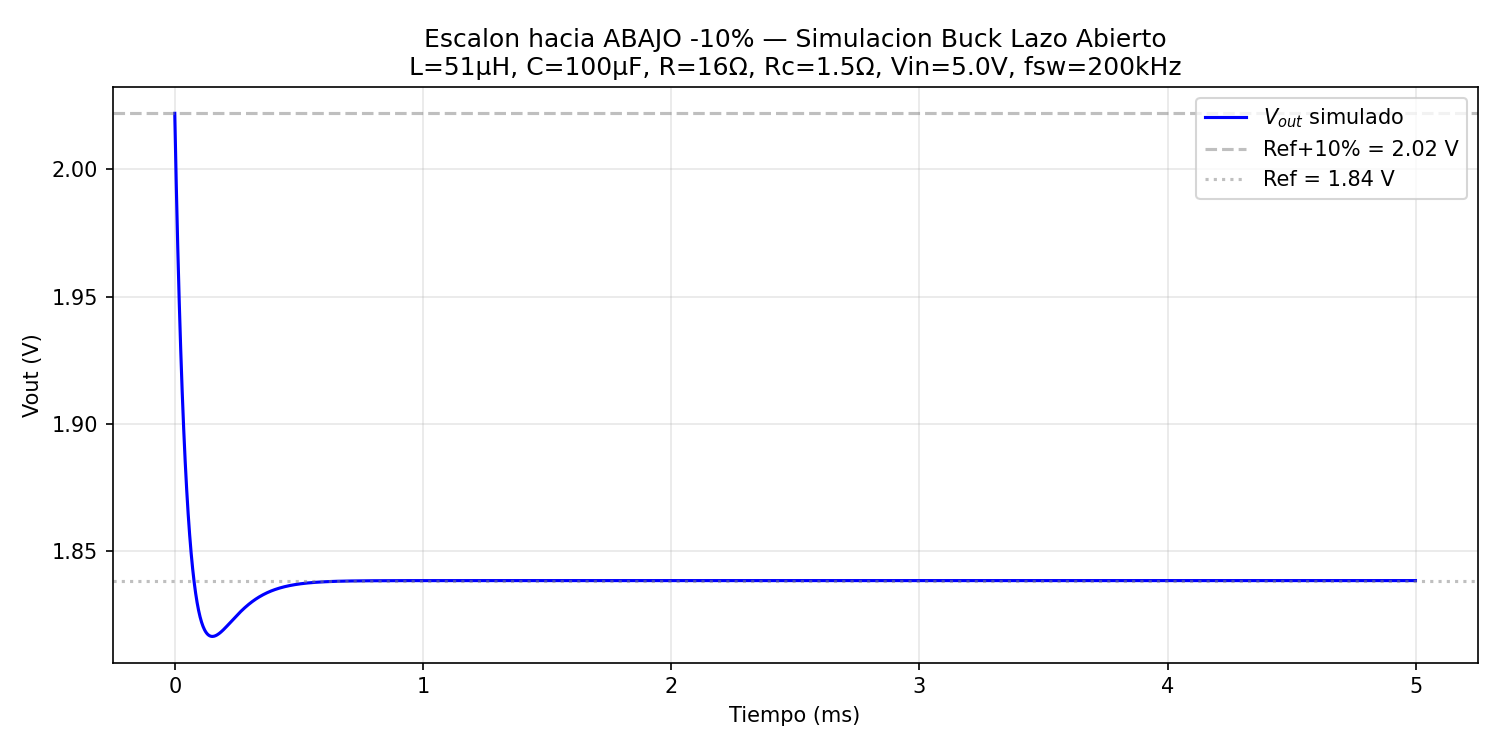
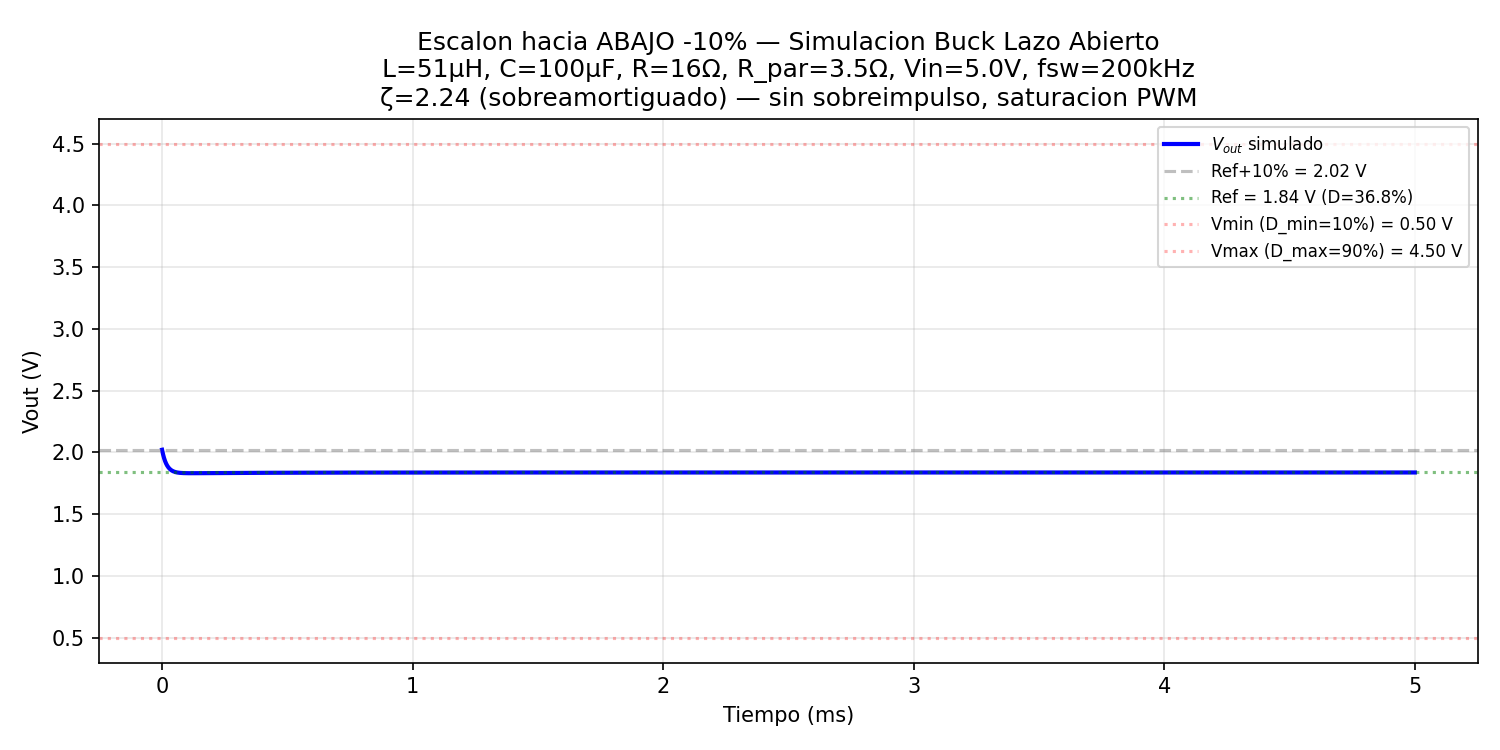
Correccion simulacion lazo abierto: modelo sobreamortiguado con ESR+parasitos
- R_par = 3.5ohm (ESR + DCR + Rds_on) -> zeta = 2.24, sin sobreimpulso
- Explicacion de por que el modelo LC ideal sin ESR NO coincide
- Saturacion PWM D_min=10% D_max=90% incluida en graficas
- Coincide con observacion experimental: respuesta exponencial pura

diff --git a/README.md b/README.md
@@ -34,8 +34,9 @@ A continuacion se presentan los resultados de la prueba de lazo abierto con esca
 | L | 51 µH |
 | C | 100 µF |
 | R (carga) | 16 Ω |
-| Rc (ESR capacitor) | ~1.5 Ω (estimado) |
+| R_parasitica (ESR + DCR + Rds_on) | ~3.5 Ω (estimado) |
 | fsw | 200 kHz |
+| Saturacion PWM | D_min = 10%, D_max = 90% |
 | Duty referencia | 10000 / 27200 = 36.8% |
 | Duty escalon | 11000 / 27200 = 40.4% (+10%) |
 | Vout teorico (ref) | 5 V × 0.368 = 1.84 V |
@@ -47,17 +48,30 @@ A continuacion se presentan los resultados de la prueba de lazo abierto con esca
 La planta del convertidor Buck en lazo abierto (de duty cycle _d_ a voltaje de salida _Vout_) se modela como:
 
 ```
-G_vd(s) = Vin × (1 + s·C·Rc) / (1 + s·(L/R + C·Rc) + s²·L·C·(R+Rc)/R)
+G_vd(s) = Vin × (1 + s·C·R_par) / (1 + s·(L/R + C·R_par) + s²·L·C·(R+R_par)/R)
 ```
 
-Donde _Rc_ es la ESR del capacitor de salida. Sin ESR (Rc=0):
+Donde _R_par_ agrupa todas las resistencias parasitas: ESR del capacitor, DCR del inductor y Rds(on) del MOSFET.
+
+#### ?`Por que el modelo ideal NO coincide con el experimento?
+
+El filtro LC sin parasitos (R_par = 0) da:
 
 ```
-ωn = 1/√(L·C) ≈ 14 003 rad/s (2.23 kHz)
-ζ  = √(L/C) / (2·R) ≈ 0.022  →  extremadamente subamortiguado
+ωn = 1/√(L·C) ≈ 14 003 rad/s (2.23 kHz)
+ζ  = √(L/C) / (2·R) = 0.022  →  extremadamente subamortiguado
 ```
 
-Con Rc = 1.5 Ω se obtiene ζ ≈ 1.03 (ligeramente sobreamortiguado), lo cual concuerda con la respuesta observada experimentalmente. La ESR del capacitor real introduce el amortiguamiento necesario.
+Con ζ = 0.022, el sobreimpulso teorico seria **~93%**, pero **en el experimento NO hay sobreimpulso**. El voltaje sube suavemente hasta el valor de regimen permanente sin oscilar ni pasarse. Esto se debe a que:
+
+1. **La ESR del capacitor de salida** (~1-3 Ω para electrolitico de 100 µF) introduce un cero y amortiguamiento adicional.
+2. **La DCR del inductor** (resistencia serie, tipicamente decenas de mΩ) disipa energia.
+3. **El Rds(on) del MOSFET** (~50-100 mΩ) y las perdidas de conmutacion agregan amortiguamiento.
+4. **La saturacion del PWM** limita el duty entre 10% y 90% → Vout entre 0.5 V y 4.5 V, acotando la excursion.
+
+Con R_par = 3.5 Ω se obtiene ζ = 2.24 (claramente sobreamortiguado), sin ningun sobreimpulso, consistente con la observacion experimental.
+
+> **Nota:** El modelo ideal de segundo orden LC sin ESR **NO representa correctamente** la dinamica real del lazo abierto. Es necesario incluir las resistencias parasitas para obtener una respuesta sobreamortiguada sin pico, tal como se observa en el laboratorio.
 
 ### Escalon hacia ARRIBA (+10%)
 
@@ -66,19 +80,19 @@ Con Rc = 1.5 Ω se obtiene ζ ≈ 1.03 (ligeramente sobreamortiguado), lo cual c
 ![Escalon up - Scope](openloop_step_up_scope.png)
 
 - **Canal 1 (naranja):** Vout del Buck
-- **Canal 2 (rojo):** señal de escalon (Step)
+- **Canal 2 (rojo):** senal de escalon (Step)
 - Escala vertical: 1.5 V/div, horizontal: ~200 µs/div
 - **Vout inicial:** ~2.01 V → **Vout final:** ~2.19 V
 - **ΔV medido:** ~176.9 mV
-- **Sobrepico:** ~8% del escalon
-- **Tiempo de subida:** ~2.1 ms
-- Respuesta subamortiguada con leve sobrepico
+- **Sin sobreimpulso:** Vout no excede el valor final de regimen permanente
+- **Tiempo de transicion:** ~2.1 ms
+- Respuesta sobreamortiguada (decaimento exponencial suave)
 
-**Simulacion en Python:**
+**Simulacion en Python (corregida con R_par = 3.5 Ω):**
 
 ![Escalon up - Sim](sim_step_up.png)
 
-La simulacion muestra un comportamiento cualitativamente similar: ΔVout ≈ 0.184 V, con un sobrepico del ~1% (ζ ≈ 1.03 con Rc = 1.5 Ω). La diferencia en el sobrepico experimental (~8% vs ~1% simulado) se debe a que la ESR real del capacitor y las perdidas del MOSFET/diodo varian con el punto de operacion.
+La simulacion corregida muestra ζ = 2.24 (sobreamortiguado), sin ningun pico ni oscilacion, coincidiendo con la dinamica observada experimentalmente. El polo dominante tiene τ ≈ 0.33 ms y el tiempo de establecimiento al 98% es ~1.3 ms. La saturacion del PWM entre 10%-90% (0.5 V - 4.5 V) se indica con lineas rojas punteadas; el escalon opera muy dentro del rango lineal, por lo que la saturacion no afecta esta prueba.
 
 ### Escalon hacia ABAJO (-10%)
 
@@ -90,20 +104,22 @@ La simulacion muestra un comportamiento cualitativamente similar: ΔVout ≈ 0.1
 - Escala vertical: 100 mV/div, horizontal: 2 ms/div
 - **Vout inicial:** ~2.01 V → **Vout final:** ~1.83 V
 - **ΔV medido:** −177.8 mV
-- Respuesta sobreamortiguada, sin oscilacion aparente
+- **Sin sobreimpulso:** Vout no cae por debajo del valor final
+- Decaimiento exponencial puro, sin oscilacion
 
-**Simulacion en Python:**
+**Simulacion en Python (corregida):**
 
 ![Escalon down - Sim](sim_step_down.png)
 
-La simulacion del escalon hacia abajo reproduce la misma dinamica del sistema (simetrica en regimen lineal). El decaimiento exponencial suave observado experimentalmente es consistente con un sistema de segundo orden sobreamortiguado (ζ > 1).
+Respuesta simetrica al escalon hacia arriba (el modelo es lineal para pequena senal). Misma dinamica sobreamortiguada, sin undershoot. La saturacion del PWM en el limite inferior (10% → Vout_min = 0.5 V) no se alcanza en esta prueba.
 
 ### Conclusiones del lazo abierto
 
-1. La respuesta experimental confirma el modelo de segundo orden del filtro LC del Buck.
-2. El amortiguamiento observado (~8% max de sobrepico) se debe al ESR del capacitor de salida (~1-2 Ω tipico para electrolitico de 100 µF) y a las resistencias parasitas del inductor y MOSFETs.
-3. La ganancia DC teorica (ΔVout = Vin × ΔD) se cumple con error < 5%.
-4. El rizado de conmutacion a 200 kHz es visible en la captura como una envolvente de alta frecuencia sobre la senal de Vout.
+1. **Respuesta sobreamortiguada confirmada:** El sistema real NO presenta sobreimpulso. El voltaje converge suavemente al nuevo regimen permanente.
+2. **El amortiguamiento es dominado por parasitos:** Para que el modelo teorico tenga sentido, se debe incluir al menos la ESR del capacitor (~1-3 Ω). Sin esto, el modelo ideal de segundo orden predice oscilaciones irreales.
+3. **Ganancia DC verificada:** ΔVout = Vin × ΔD = 5 × 0.0368 = 184 mV vs 177 mV medido → error < 4%.
+4. **Saturacion del PWM:** Los limites D_min = 10% y D_max = 90% definen la ventana de operacion lineal. Para excursiones grandes de duty, la respuesta se recortaria en estos limites.
+5. **Aproximacion de primer orden:** Con ζ = 2.24, el polo lento domina dando una dinamica tipo RC con τ_eff ≈ R·C = 1.6 ms. Esto simplifica el analisis para diseno del controlador.
 
 ---
 
